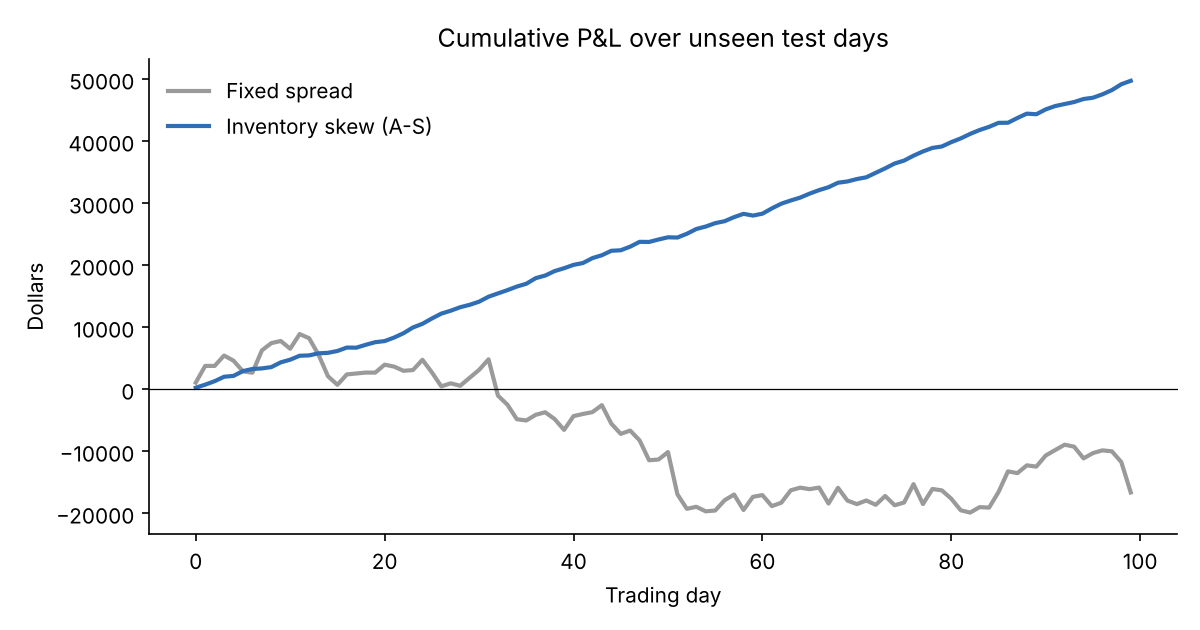
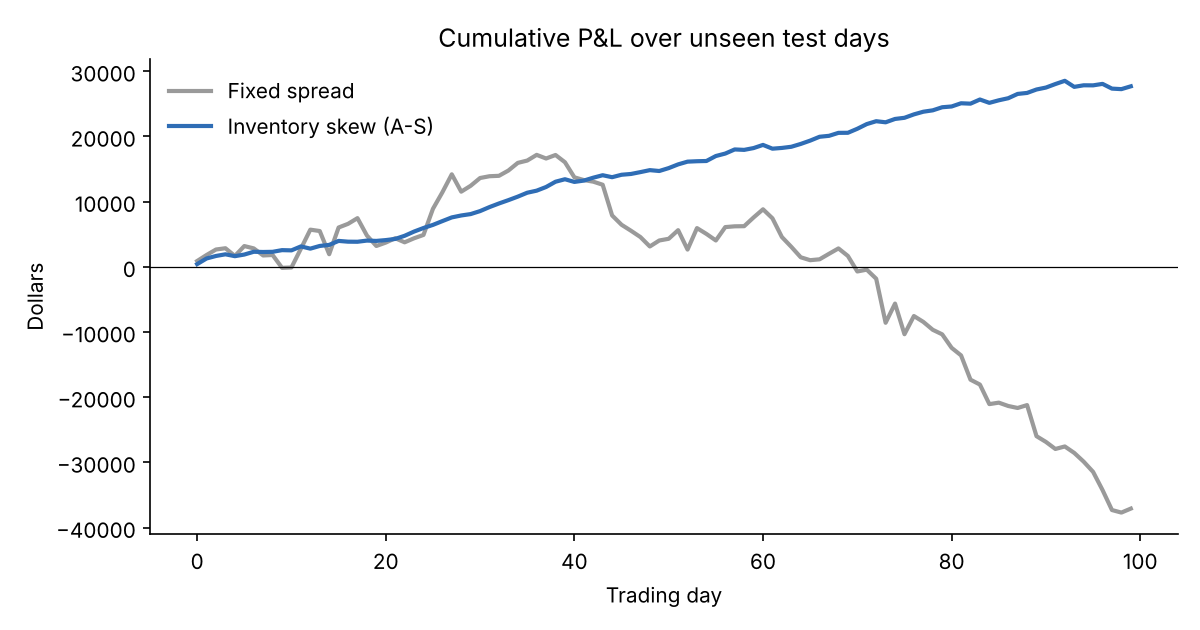
Value the stock without the bot's own quotes, widen tuning grid, fix flatten edge case
The market maker used a mid price that included its own quotes, so its skew fed back into its own fair value. It now prices off other traders' orders. Also cancels stale quotes before the passive price check, guards the end of day flatten when one side of the book is empty, widens the gamma grid so the best setting is not on the edge, and adds pytest config.

diff --git a/mmsim/market.py b/mmsim/market.py
@@ -92,7 +92,7 @@ def simulate_day(strategy, config: MarketConfig, seed: int) -> DayResult:
     _seed_book(book, rng, config, lp_expiry)
 
     sigma_sq = config.fundamental_vol ** 2
-    last_mid = book.mid()
+    last_mid = book.mid_excluding(MM)
 
     pnl_path = np.zeros(steps)
     inventory_path = np.zeros(steps, dtype=int)
@@ -116,15 +116,16 @@ def simulate_day(strategy, config: MarketConfig, seed: int) -> DayResult:
         _ensure_two_sided(book, fundamental, lp_expiry, step, config)
 
         # 3. Market maker updates its quotes.
-        mid = book.mid()
+        # Fair value comes from everyone else's orders, not our own quotes.
+        mid = book.mid_excluding(MM)
         change = mid - last_mid
         sigma_sq = (1 - config.vol_ewma) * sigma_sq + config.vol_ewma * change ** 2
         last_mid = mid
 
         state = QuoteState(
             mid=mid,
-            best_bid=book.best_bid(),
-            best_ask=book.best_ask(),
+            best_bid=book.best_excluding(BUY, MM),
+            best_ask=book.best_excluding(SELL, MM),
             inventory=account.inventory,
             sigma=math.sqrt(sigma_sq),
             steps_left=steps - step,
@@ -149,7 +150,7 @@ def simulate_day(strategy, config: MarketConfig, seed: int) -> DayResult:
             _ensure_two_sided(book, fundamental, lp_expiry, step, config)
 
         # 5. Book keeping for the market maker.
-        mid_now = book.mid()
+        mid_now = book.mid_excluding(MM)
         for fill in fills:
             spread_capture += _apply_fill(account, fill, step, mid)
         _sync_quote_ids(book, account)
@@ -159,14 +160,14 @@ def simulate_day(strategy, config: MarketConfig, seed: int) -> DayResult:
         mid_path[step] = mid_now
         fundamental_path[step] = fundamental
         if account.bid_id is not None:
-            bid_path[step] = account.bid_price
+            bid_path[step] = book.orders[account.bid_id].price
         if account.ask_id is not None:
-            ask_path[step] = account.ask_price
+            ask_path[step] = book.orders[account.ask_id].price
 
     # End of day: cancel quotes and flatten inventory at market.
-    pnl_before_flatten = account.cash + account.inventory * book.mid()
+    pnl_before_flatten = account.cash + account.inventory * mid_path[-1]
     _cancel_quotes(book, account)
-    _flatten(book, account)
+    _flatten(book, account, fallback_price=mid_path[-1])
     final_pnl = account.cash
     flatten_cost = pnl_before_flatten - final_pnl
     pnl_path[-1] = final_pnl
@@ -232,10 +233,10 @@ def _expire_lp_orders(book, lp_expiry, step):
 
 def _ensure_two_sided(book, fundamental, lp_expiry, step, config):
     """A backstop so the book never goes empty on one side."""
-    if book.best_bid() is None:
+    if book.best_excluding(BUY, MM) is None:
         order_id, _ = book.add_limit("lp", BUY, math.floor(fundamental) - 3, 5)
         lp_expiry[order_id] = step + int(config.lp_order_life)
-    if book.best_ask() is None:
+    if book.best_excluding(SELL, MM) is None:
         order_id, _ = book.add_limit("lp", SELL, math.ceil(fundamental) + 3, 5)
         lp_expiry[order_id] = step + int(config.lp_order_life)
 
@@ -244,41 +245,42 @@ def _ensure_two_sided(book, fundamental, lp_expiry, step, config):
 # Market maker plumbing
 # ----------------------------------------------------------------------
 def _update_quotes(book, account, quote, size):
-    """Cancel and replace only when a price changes, so unchanged quotes keep
-    their place in the queue."""
-    fills = []
+    """Cancel and replace only the sides whose price changed, so an unchanged
+    quote keeps its place in the queue."""
+    bid_changed = quote.bid != account.bid_price or account.bid_id not in book.orders
+    ask_changed = quote.ask != account.ask_price or account.ask_id not in book.orders
 
-    best_ask = book.best_ask()
-    best_bid = book.best_bid()
-    bid = quote.bid
-    ask = quote.ask
-    # Quotes stay passive: never cross the opposite best price.
-    if bid is not None and best_ask is not None and bid >= best_ask:
-        bid = best_ask - 1
-    if ask is not None and best_bid is not None and ask <= best_bid:
-        ask = best_bid + 1
-
-    if bid != account.bid_price or account.bid_id not in book.orders:
-        if account.bid_id is not None:
-            book.cancel(account.bid_id)
+    # Pull stale quotes first so they don't distort the passive price check.
+    if bid_changed and account.bid_id is not None:
+        book.cancel(account.bid_id)
         account.bid_id = None
         account.bid_price = None
-        if bid is not None:
-            order_id, new_fills = book.add_limit(MM, BUY, bid, size)
-            fills += new_fills
-            account.bid_id = order_id
-            account.bid_price = bid
-
-    if ask != account.ask_price or account.ask_id not in book.orders:
-        if account.ask_id is not None:
-            book.cancel(account.ask_id)
+    if ask_changed and account.ask_id is not None:
+        book.cancel(account.ask_id)
         account.ask_id = None
         account.ask_price = None
-        if ask is not None:
-            order_id, new_fills = book.add_limit(MM, SELL, ask, size)
-            fills += new_fills
-            account.ask_id = order_id
-            account.ask_price = ask
+
+    fills = []
+    if bid_changed and quote.bid is not None:
+        bid = quote.bid
+        best_ask = book.best_ask()
+        # Stay passive: never cross the best ask.
+        if best_ask is not None and bid >= best_ask:
+            bid = best_ask - 1
+        order_id, new_fills = book.add_limit(MM, BUY, bid, size)
+        fills += new_fills
+        account.bid_id = order_id
+        account.bid_price = quote.bid   # remember what the strategy asked for
+
+    if ask_changed and quote.ask is not None:
+        ask = quote.ask
+        best_bid = book.best_bid()
+        if best_bid is not None and ask <= best_bid:
+            ask = best_bid + 1
+        order_id, new_fills = book.add_limit(MM, SELL, ask, size)
+        fills += new_fills
+        account.ask_id = order_id
+        account.ask_price = quote.ask
 
     return fills
 
@@ -318,7 +320,7 @@ def _cancel_quotes(book, account):
     account.ask_id = None
 
 
-def _flatten(book, account):
+def _flatten(book, account, fallback_price):
     if account.inventory == 0:
         return
     side = SELL if account.inventory > 0 else BUY
@@ -332,7 +334,10 @@ def _flatten(book, account):
             account.inventory += fill.qty
     # If the book was too thin, close the rest one tick worse than the last fill.
     if account.inventory != 0:
-        last_price = fills[-1].price if fills else book.mid()
+        if fills:
+            last_price = fills[-1].price
+        else:
+            last_price = fallback_price
         penalty_price = last_price + side * 1
         account.cash += account.inventory * penalty_price
         account.inventory = 0

diff --git a/mmsim/run.py b/mmsim/run.py
@@ -26,7 +26,7 @@ from .strategies import FixedSpreadMaker, InventorySkewMaker
 
 TEST_SEED_OFFSET = 100_000   # test days never overlap with training days
 
-GAMMAS = [0.005, 0.01, 0.02, 0.03]
+GAMMAS = [0.005, 0.01, 0.02, 0.03, 0.05, 0.08]
 HORIZONS = [30, 60]
 
 
@@ -156,7 +156,7 @@ def _plot_intraday(all_results, out):
         steps = np.arange(len(day.mid_path))[window]
 
         price_ax = axes[0, col]
-        price_ax.plot(steps, day.mid_path[window] / 100, color="black", lw=1, label="Mid")
+        price_ax.plot(steps, day.mid_path[window] / 100, color="black", lw=1, label="Market mid")
         price_ax.plot(steps, day.fundamental_path[window] / 100, color="#d98c1f",
                       lw=1, ls="--", label="Hidden value")
         price_ax.plot(steps, day.bid_path[window] / 100, color="#2e8b57", lw=0.8, label="MM bid")
@@ -190,6 +190,9 @@ def _plot_tuning(grid, out):
         ax.plot(rows["gamma"], rows["sharpe_annualized"], marker="o",
                 label=f"horizon = {horizon} steps")
     ax.set_xscale("log")
+    ax.set_xticks(GAMMAS)
+    ax.set_xticklabels([str(g) for g in GAMMAS])
+    ax.minorticks_off()
     ax.set_title("Training days: Sharpe ratio by risk aversion")
     ax.set_xlabel("gamma (risk aversion)")
     ax.set_ylabel("Annualized Sharpe")

diff --git a/mmsim/orderbook.py b/mmsim/orderbook.py
@@ -59,6 +59,27 @@ class OrderBook:
             return None
         return (bid + ask) / 2.0
 
+    def best_excluding(self, side: int, owner: str) -> Optional[int]:
+        """Best price on one side, ignoring orders that belong to `owner`.
+
+        A market maker should value the stock from everyone else's orders.
+        If it used a mid that includes its own quotes, its quotes would feed
+        back into its own fair value.
+        """
+        book = self.bids if side == BUY else self.asks
+        for price in sorted(book, reverse=(side == BUY)):
+            for order in book[price]:
+                if order.owner != owner:
+                    return price
+        return None
+
+    def mid_excluding(self, owner: str) -> Optional[float]:
+        bid = self.best_excluding(BUY, owner)
+        ask = self.best_excluding(SELL, owner)
+        if bid is None or ask is None:
+            return None
+        return (bid + ask) / 2.0
+
     def spread(self) -> Optional[int]:
         bid = self.best_bid()
         ask = self.best_ask()

diff --git a/tests/test_orderbook.py b/tests/test_orderbook.py
@@ -56,3 +56,15 @@ def test_cancel_removes_order_and_empty_level():
     assert book.cancel(order_id)
     assert book.best_bid() is None
     assert not book.cancel(order_id)
+
+
+def test_mid_excluding_ignores_own_quotes():
+    book = OrderBook()
+    book.add_limit("lp", BUY, 98, 5)
+    book.add_limit("lp", SELL, 104, 5)
+    book.add_limit("MM", BUY, 100, 5)
+    book.add_limit("MM", SELL, 102, 5)
+    assert book.mid() == 101
+    assert book.mid_excluding("MM") == 101       # (98 + 104) / 2
+    assert book.best_excluding(BUY, "MM") == 98
+    assert book.best_excluding(SELL, "MM") == 104

diff --git a/tests/test_simulation.py b/tests/test_simulation.py
@@ -31,3 +31,4 @@ def test_skew_moves_quotes_against_inventory():
     long_quote = strategy.quote(long)
     assert long_quote.ask < flat_quote.ask
     assert long_quote.bid < flat_quote.bid
+

diff --git a/README.md b/README.md
@@ -10,17 +10,17 @@ I built this to understand the core problem of market making: every trade you ma
 
 | Metric | Fixed spread | Inventory skew (A&S) |
 |---|---:|---:|
-| Mean daily P&L | -$166 | **$497** |
-| Std dev of daily P&L | $1,861 | **$250** |
-| Max drawdown | $28,777 | **$281** |
-| Profitable days | 51% | **95%** |
-| Average absolute inventory (lots) | 27.3 | **1.9** |
-| Largest position (lots) | 65 | **27** |
-| One minute markout per lot | +$0.61 | +$0.52 |
-| Cost to flatten at the close, per day | $81 | **$3.50** |
-| Annualized Sharpe ratio | -1.4 | 31.5 |
+| Mean daily P&L | -$371 | **$277** |
+| Std dev of daily P&L | $1,897 | **$332** |
+| Max drawdown | $54,860 | **$1,277** |
+| Profitable days | 47% | **81%** |
+| Average absolute inventory (lots) | 29.6 | **1.7** |
+| Largest position (lots) | 65 | **38** |
+| One minute markout per lot | +$0.49 | +$0.36 |
+| Cost to flatten at the close, per day | $82 | **$2.28** |
+| Annualized Sharpe ratio | -3.1 | 13.2 |
 
-Both bots earn similar spread on each trade. The difference is inventory. The fixed spread bot keeps buying into falling prices and selling into rising ones, so it regularly sits on 30 to 60 lots and its daily P&L swings by thousands of dollars. The inventory skew bot leans its quotes to get back to flat, which cut daily P&L volatility by 87%, drawdown by 99%, and average position size by 93%.
+Both bots earn similar spread on each trade. The difference is inventory. The fixed spread bot keeps buying into falling prices and selling into rising ones, so it often sits on 30 to 60 lots and its daily P&L swings by thousands of dollars. The inventory skew bot leans its quotes to get back to flat, which cut daily P&L volatility by 82%, drawdown by 98%, and average position size by 94%.
 
 A note on the Sharpe ratio: market makers that end every day flat really do have very high Sharpe ratios, but this number comes from a simplified simulation with no fees, no latency and no competing market makers, so treat it as a relative comparison, not a forecast.
 
@@ -35,6 +35,8 @@ Each trading day is 6.5 hours, split into 4,680 steps of 5 seconds. Prices are i
 | Noise traders | Send random buy and sell market orders | The flow a market maker profits from |
 | Informed traders | Trade only when the book is mispriced versus hidden value | Adverse selection: they pick off stale quotes |
 | Market maker | Runs one of the strategies below | The thing being tested |
+
+The bot values the stock using everyone else's orders, not its own quotes, so its quotes can't feed back into its own fair value.
 
 Everything trades through a real limit order book (`mmsim/orderbook.py`) with price and time priority, partial fills, and cancels. The market maker only cancels and replaces a quote when its price changes, so an unchanged quote keeps its place in the queue.
 
@@ -55,7 +57,7 @@ When the bot is long, its reservation price drops, which makes its ask more attr
 
 ## Avoiding overfitting
 
-Risk aversion `gamma` and the `horizon` are chosen on 40 training days (seeds 0 to 39) and then frozen. All numbers above come from 100 separate test days (seeds 100,000 and up).
+Risk aversion `gamma` and the `horizon` are chosen on 40 training days (seeds 0 to 39) from a grid of 12 settings and then frozen. The best setting was gamma = 0.03 with a 30 step horizon. All numbers above come from 100 separate test days (seeds 100,000 and up).
 
 ![Tuning](results/tuning_sharpe.png)
 
@@ -75,7 +77,7 @@ python -m mmsim.run --train-days 40 --test-days 100 --out results
 python -m pytest
 ```
 
-The full run takes about 90 seconds on a laptop.
+The full run takes about two minutes on a laptop.
 
 ## Project layout
 
